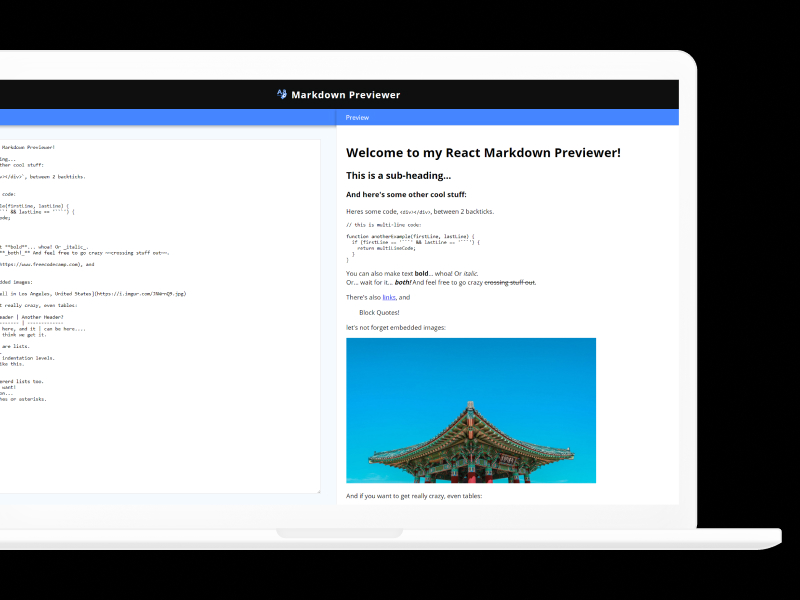
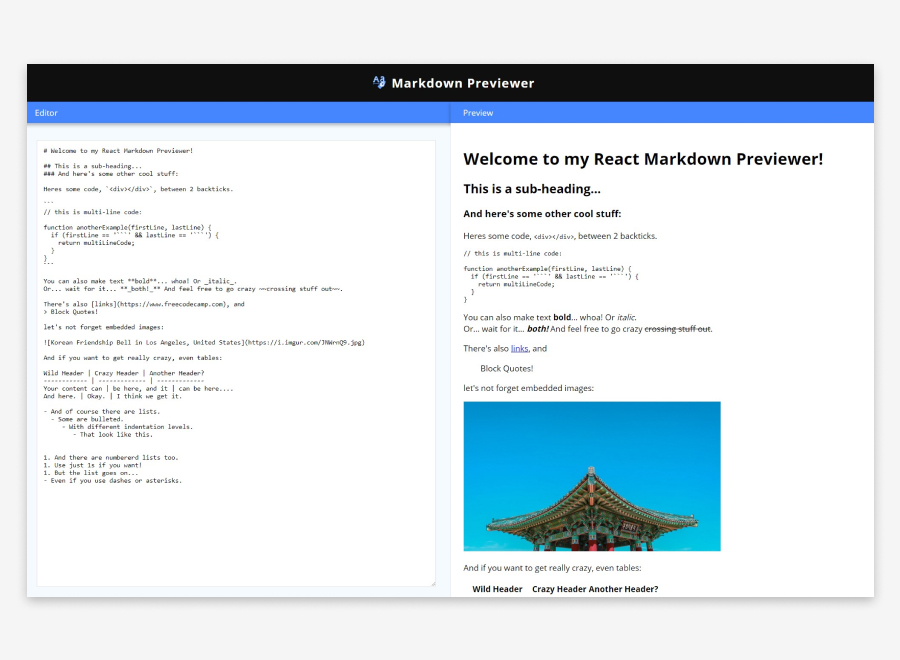
Change markdown project colors and thumbnail

diff --git a/src/components/project.js b/src/components/project.js
@@ -36,7 +36,7 @@ const ProjectWrapper = styled.div`
     background-color: #e60060;
   }
   &:nth-child(4) {
-    background-color: #1c006d;
+    background-color: #4b84f4;
   }
   &:nth-child(5) {
     background-color: #23272f;
